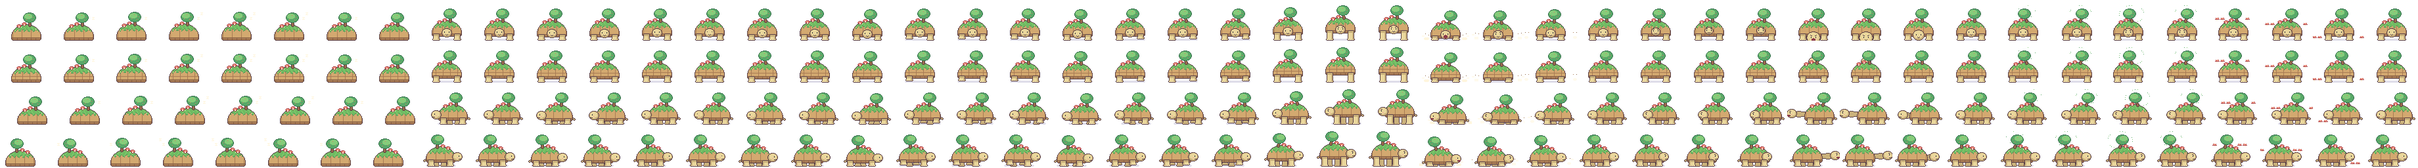
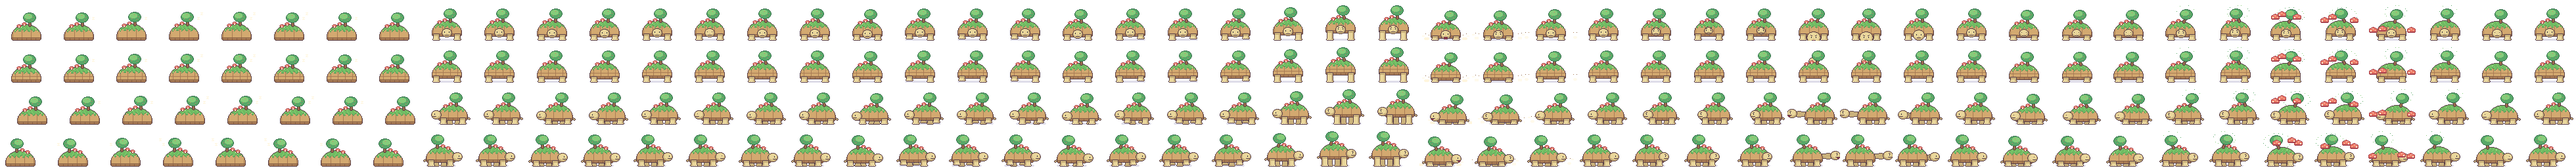
docs(design): enemy showcase: sporelings fall off Old Mossback when it
Enemy showcase: sporelings fall off Old Mossback when it shakes; fuller shake animation; a plain tortoise beak

diff --git a/design/enemies/site/index.html b/design/enemies/site/index.html
@@ -74,7 +74,7 @@
       <div><b>Big, not busy.</b> Old Mossback is about four players wide, in the same flat colours and darker-tone outlines as the cow, so it belongs to the same world.</div>
       <div><b>Three attacks, three warnings.</b> Each has its own held pose (risen on its legs, head pulled in, shell shuddering), so the answer can be read before the hit: back off, sidestep, deal with the sporecaps.</div>
       <div><b>A first boss teaches.</b> It is slow, every warning is long (about half a second), and it has one soft spot, the stretched neck, that rewards waiting.</div>
-      <div><b>It uses the small mobs.</b> The sporecaps it shakes off are the same sporecap as below; hoppers and burrows stay ordinary, rare creatures.</div>
+      <div><b>It has a brood.</b> Its shake drops three sporelings, small sporecaps with their own landing; in the strip above they fall, pop up, waddle off and puff. Sporecaps, hoppers and burrows stay ordinary, rare creatures.</div>
       <div><b>Off this page.</b> The owl and the stone golem are dropped. The tusker, pincer, strawman, wisp and wyrm are still in the game.</div>
       <div><b>Source:</b> one file per creature in <code>design/enemies/roster/</code>; <code>build.py</code> makes the sheets (rows down, up, left, right; columns idle, move, then each action) and this page. Designs only: nothing here is in the game yet.</div>
     </div>
@@ -112,7 +112,7 @@ function sprite(g, e, dir, mode, i, x, y, z) {
 }
 
 function build() {
-  $("sub").textContent = `Old Mossback and three small mobs, beside the game's own player, cow and chicken`;
+  $("sub").textContent = `Old Mossback, its sporelings and three small mobs, beside the game's own player, cow and chicken`;
   for (const e of meta) {
     const [cw, ch] = e.cell, z = cw > 32 ? 3 : 4, el = document.createElement("section");
     el.className = "card enemy" + (cw > 48 ? " wide" : "");
@@ -164,7 +164,7 @@ function drawOld(g, key, dir, moving, t, x, y, z, memo) {
 const W = 22, H = 9, POND = [17, 1, 5, 7], BEACH = [15, 0, 2, 9];
 const LOOPS = {sporecap: [.8, 1.3, 3.4, 1.4], mossback: [7.5, 2.6, 5.5, 2.2], player: [.8, 4.6, 3, 1.3], cow: [4.6, 7.4, 3.6, .9],
   burrow: [1, 7.4, 2.6, 1], chicken: [10, 7.6, 3, .8], hopper: [14.6, 1.3, 1.6, 6.4]};
-const SPEED = {sporecap: .8, hopper: 2.2, burrow: 1.6, mossback: .8};      // tiles per second; the game's cow ambles at 1.2, its chicken at 1.6, the player walks at 2.4
+const SPEED = {sporeling: 2, sporecap: .8, hopper: 2.2, burrow: 1.6, mossback: .8};      // tiles per second; the game's cow ambles at 1.2, its chicken at 1.6, the player walks at 2.4
 function along([x, y, w, h], d) {                       // where on the rectangle after d tiles, and which way it faces
   d %= 2 * (w + h);
   if (d < w) return [x + d, y, "right"];
@@ -192,6 +192,30 @@ function stepOld(key, dt) {                              // the old ones only wa
   if (a.t >= (a.moving ? 4200 : 1500)) { a.t = 0; a.moving = !a.moving; }
   if (a.moving) a.d += OLD[key].speed * dt / 1000;
   return [...along(LOOPS[key], a.d), a];
+}
+
+// Old Mossback's shake drops three sporelings where the falling ones in its own frames reach the ground. Each lands,
+// waddles away from it, puffs, and is gone.
+const spawned = [];
+let shaking = false;
+function brood(boss, x, y, dir, mode, dt, things, g, z) {
+  const a = actors.mossback, e = meta.find((m) => m.key === "sporeling");
+  const now = mode === "shake" && a.t >= total(boss.ms.shake.slice(0, 8));       // the frame they touch the ground
+  if (now && !shaking) {
+    const flip = dir === "right" ? -1 : 1;               // the right-facing sheet is the left one mirrored
+    for (const px of boss.falls) spawned.push({x: x + flip * px / 16, y: y + .05 + Math.abs(px) * .001, way: flip * px < 0 ? "left" : "right", t: 0});
+  }
+  shaking = now;
+  const land = total(e.ms.land), puff = total(e.ms.puff), walk = 2600;
+  for (const s of spawned) {
+    s.t += dt;
+    let m = "land", t = s.t;
+    if (s.t >= land + walk) { m = "puff"; t = s.t - land - walk; }
+    else if (s.t >= land) { m = "walk"; t = s.t - land; s.x += (s.way === "left" ? -1 : 1) * SPEED.sporeling * .5 * dt / 1000; }
+    const i = frameAt(e, m, t, m === "walk");
+    things.push({x: s.x, y: s.y, label: "", paint: (px, py) => sprite(g, e, m === "land" ? "down" : s.way, m, i, px, py + 2 * z, z)});
+  }
+  for (let k = spawned.length - 1; k >= 0; k--) if (spawned[k].t >= land + walk + puff) spawned.splice(k, 1);
 }
 
 let last = 0;
@@ -227,8 +251,10 @@ function draw(t) {
     things.push({x, y, label: OLD[key].name, old: true, paint: (px, py) => drawOld(g, key, dir, a.moving, t, px, py, z, a.memo)});
   }
   for (const e of meta) {
+    if (e.key === "sporeling") continue;                 // they only exist when the boss shakes them off
     const [x, y, dir, mode, i] = step(e, dt);
     things.push({x, y, label: e.name, paint: (px, py) => sprite(g, e, dir, mode, i, px, py + 2 * z, z)});
+    if (e.key === "mossback") brood(e, x, y, dir, mode, dt, things, g, z);
   }
   things.sort((a, b) => a.y - b.y);
   g.font = "800 11px ui-rounded, system-ui"; g.textAlign = "center";

diff --git a/design/enemies/roster/mossback.py b/design/enemies/roster/mossback.py
@@ -6,7 +6,7 @@ the shell sinks on each footfall, the head follows a frame late, the tree sways 
 Three attacks, each with its own warning:
   stomp   it rises on its legs and hangs there, then drops: a ring of dust, everything near is thrown back
   snap    the head pulls into the shell, eyes narrowed, then shoots out two tiles along the way it faces
-  shake   the shell shudders and the tree thrashes, leaves fly, and sporecaps tumble off its back
+  shake   it braces low with its head in and eyes shut, then the shell rocks over planted feet, the tree whips, leaves fly, and three sporelings (roster/sporeling.py) tumble off its back
 """
 import math
 
@@ -45,7 +45,7 @@ def shell(cx, bot, view, puff=0):
     return part(c)
 
 
-def garden(g, cx, bot, sway=0, puff=0, shed=False):
+def garden(g, cx, bot, sway=0, puff=0, shed=False, bare=False):
     """What grows on the shell: an apple tree (it sways), two mushrooms, flowers."""
     top = lambda x: round(dome_top(cx, bot, x, puff))
     t = canvas(W, H)
@@ -61,7 +61,7 @@ def garden(g, cx, bot, sway=0, puff=0, shed=False):
         if not shed or (x + y) % 2:
             dot(cn, tx + sway + x, cy + y, "a")
     g = over(g, part(cn, "O"))
-    for mx in (cx - 12, cx - 4):                                     # mushrooms
+    for mx in () if bare else (cx - 12, cx - 4):                     # mushrooms (gone once it has shaken them off)
         m = canvas(W, H)
         y = top(mx)
         for x in (mx, mx + 1):
@@ -101,12 +101,12 @@ def head(view, hx, hy, r=0.0, open_=False, angry=False, blink=False):
         g[hy - 1][hx - 3] = "k" if blink else "e"; g[hy - 2][hx - 3] = "o" if blink else "e"
         if angry:
             g[hy - 3][hx - 4] = g[hy - 4][hx - 3] = g[hy - 4][hx - 2] = "o"
-        g[hy + 1][hx - 1] = g[hy + 1][hx] = "p"
-        for x in range(hx - 7, hx - 2):
-            g[hy + 3][x] = "o"
+        g[hy][hx - 6] = "K"                                          # a nostril, and a beak: one flat line, no expression
+        for x in range(hx - 7, hx):
+            g[hy + 2][x] = "o"
         if open_:
-            for y in (hy + 2, hy + 3, hy + 4):
-                for x in range(hx - 7, hx - 2 - (y - hy - 2)):
+            for y in (hy + 3, hy + 4):
+                for x in range(hx - 7, hx - 2 - (y - hy - 3)):
                     if g[y][x] != ".":
                         g[y][x] = "m"
     else:
@@ -114,30 +114,30 @@ def head(view, hx, hy, r=0.0, open_=False, angry=False, blink=False):
             g[hy - 1][hx + sx] = "k" if blink else "e"; g[hy - 2][hx + sx] = "o" if blink else "e"
             if angry:
                 g[hy - 4][hx + sx + (1 if sx < 0 else -1)] = g[hy - 4][hx + sx] = "o"; g[hy - 5][hx + sx + (-1 if sx < 0 else 1)] = "o"
-        g[hy + 1][hx - 6] = g[hy + 1][hx + 5] = "p"
-        for x in (hx - 2, hx + 1):
-            g[hy + 2][x] = "o"
-        g[hy + 3][hx - 1] = g[hy + 3][hx] = "o"
+        g[hy + 1][hx - 1] = g[hy + 1][hx] = "K"                       # nostrils, and a beak: one flat line, no expression
+        for x in range(hx - 3, hx + 3):
+            dot(g, x, hy + 3, "o", on="kK")
         if open_:
-            ell(g, hx, hy + 3, 3.5, 2.6, "m")
+            ell(g, hx, hy + 5, 3, 1.6, "m")
     return ["".join(row) for row in g]
 
 
 def frame(view, up=0, step=None, bob=0, neck=0, open_=False, angry=False, blink=False, sway=0, shake=0, dust=0, asleep=False,
-          puff=0, zs=0, leaves=0, drops=0):
+          puff=0, zs=0, leaves=0, drops=0, bare=False):
     """up: the body raised on its legs (negative: dropped). step: frame of the walk. neck: head pulled in (<0) or shot out (>0)."""
     side = view == "left"
-    cx = (49 if side else 40) + shake
+    feet = 49 if side else 40                                        # the legs stay planted; the shell shakes over them
+    cx = feet + shake
     bot = BASE if asleep else BASE - LEGS - up + bob
     g = ["." * W] * H
     ph = lambda off: (0, 0) if step is None else (STEP_DX[(step + off) % 8], STEP_UP[(step + off) % 8] * 2)
     low = lambda u: max(0, u + min(0, up))                           # a dropped body cannot lift a foot
     if side and not asleep:
         nk = canvas(W, H)                                            # the neck, from the shell to wherever the head is
-        hx, hy = cx - 25 - neck, bot - 7 + (bob if step is not None else 0) - (2 if neck > 8 else 0)
+        hx, hy = feet + shake // 2 - 25 - neck, bot - 7 + (bob if step is not None else 0) - (2 if neck > 8 else 0)
         ell(nk, (hx + cx - 20) / 2, hy + 1, (cx - 20 - hx) / 2 + 3, 3.6, "K")
         g = over(g, part(nk))
-        for x, off in ((cx - 8, 4), (cx + 4, 0)):                    # far legs
+        for x, off in ((feet - 8, 4), (feet + 4, 0)):                    # far legs
             g = over(g, leg(x, bot, ph(off)[0], low(ph(off)[1]), far=True, w=7))
         tl = canvas(W, H)                                            # tail
         for i in range(4):
@@ -146,46 +146,47 @@ def frame(view, up=0, step=None, bob=0, neck=0, open_=False, angry=False, blink=
     if view == "up" and not asleep and neck > 8:                     # from behind, the head only shows when it shoots out
         g = over(g, head("up", cx, round(dome_top(cx, bot, cx)) - 2, 0))
     g = over(g, shell(cx, bot, view, puff))
-    g = garden(g, cx, bot, sway, puff, shed=drops > 0)
+    g = garden(g, cx, bot, sway, puff, shed=drops > 0 or bare, bare=bare or drops > 0)
     if not asleep:
         if side:
             g = over(g, head(view, hx, hy, 0, open_, angry, blink))
-            for x, off in ((cx - 18, 0), (cx + 11, 4)):              # near legs
+            for x, off in ((feet - 18, 0), (feet + 11, 4)):              # near legs
                 g = over(g, leg(x, bot, ph(off)[0], low(ph(off)[1])))
         else:
             lift = (0, 0) if step is None else ((2, 0) if step in (1, 2, 3) else (0, 2) if step in (5, 6, 7) else (0, 0))
-            for k, x in enumerate((cx - 20, cx + 12)):
+            for k, x in enumerate((feet - 20, feet + 12)):
                 g = over(g, leg(x, bot, 0, low(lift[k])))
             if view == "down":
-                g = over(g, head(view, cx, bot - 4 + neck * .45 + (bob if step is not None else 0), max(-2, neck * .16), open_, angry, blink))
+                g = over(g, head(view, feet + shake // 2, bot - 4 + neck * .45 + (bob if step is not None else 0), max(-2, neck * .16), open_, angry, blink))
     g = [list(r) for r in g]
     for k in range(zs):                                              # asleep: a z or two drifting up
         x, y = cx + 20 + k * 5, BASE - 34 - k * 7
         for i, j in ((0, 0), (1, 0), (2, 0), (3, 0), (2, 1), (1, 2), (0, 3), (1, 3), (2, 3), (3, 3)):
             dot(g, x + i, y + j, "z", on=".")
-    for k in range(leaves * 5):                                      # leaves torn off the tree
-        a = k * 1.3 + leaves
-        dot(g, cx + 5 + (10 + leaves * 3) * math.cos(a), BASE - 45 + (7 + leaves * 2) * math.sin(a) + leaves * 2, "C" if k % 2 else "c", on=".")
-    for k in range(3 if drops else 0):                               # sporecaps tumbling off its back
-        t = drops / 3
-        sx = (-1, 1, -1)[k]
-        x = round(cx + sx * (10 + k * 4) + sx * 20 * t)
-        y = round(BASE - 26 * (1 - t * t) - (6 * math.sin(math.pi * t)))
-        for i in range(-3, 4):                                       # a small sporecap, cap first
-            dot(g, x + i, y - 3, "Q", on=".")
-            if abs(i) < 3:
-                dot(g, x + i, y - 4, "r", on="."); dot(g, x + i, y - 5, "r" if abs(i) < 2 else "Q", on=".")
-        dot(g, x - 1, y - 5, "w"); dot(g, x + 1, y - 4, "w")
-        for i in (-1, 0):
-            dot(g, x + i, y - 2, "w", on="."); dot(g, x + i, y - 1, "w", on=".")
+    for k in range(leaves * 6):                                      # leaves torn off the tree: thrown out, then drifting down
+        a = k * 1.1 + leaves * .7
+        dot(g, feet + 5 + (9 + leaves * 4) * math.cos(a), BASE - 46 + (6 + leaves * 2) * math.sin(a) + leaves * leaves, "C" if k % 2 else "c", on=".")
+    for start, end, arc in ((-12, -32, 9), (-4, -17, 14), (8, 32, 9)) if drops else ():   # three sporelings thrown off its back,
+        t = drops / 3.5                                                                    # tucked under their caps (see FALLS)
+        x = round(40 + start + (end - start) * t)
+        y = round(BASE - 26 * (1 - t * t) - arc * math.sin(math.pi * t))
+        m = canvas(W, H)
+        ell(m, x + .5, y - 2, 6, 4.6, "r", clip=(0, y))
+        for i in range(-5, 7):
+            dot(m, x + i, y - 1, "Q", on="r")
+        ell(m, x - 1.5, y - 5.3, 1.6, .6, "p", on="r")
+        for i, j in ((-4, -3), (-3, -3), (-4, -2), (-3, -2), (0, -5), (3, -3)):
+            dot(m, x + i, y + j, "w", on="r")
+        g = [list(r) for r in over(["".join(r) for r in g], part(m, "Q"))]
     for sx in (-1, 1) if dust else ():                               # the ring of dust
         x = cx + sx * (25 + dust * 4)
         ell(g, x, BASE - dust, 4.5 - dust * .6, 2.4, "w" if dust == 1 else "x", on=".")
         ell(g, x + sx * 5, BASE - 3 - dust * 2, 2, 1.4, "x", on=".")
         dot(g, x - sx * 3, BASE - 5 - dust * 2, "R", on="."); dot(g, x + sx * 2, BASE - 8 - dust, "P", on=".")
-    return ground(g, cx, 46 if not asleep else 42)
+    return ground(g, feet, 46 if not asleep else 42)
 
 
+FALLS = (-32, -17, 32)                             # where the three sporelings land, in pixels from the middle of its cell
 BOB = [1, 0, 0, 0, 1, 0, 0, 0]                       # the shell sinks as each pair of feet lands
 SWAY = [0, 1, 1, 0, 0, -1, -1, 0]                    # the tree answers a frame late
 
@@ -199,16 +200,18 @@ def frames(d):
                frame(d, up=-3, dust=2, sway=-2, angry=True), frame(d, up=-1, dust=3, sway=1), frame(d)],
         snap=[frame(d, neck=-4, angry=True), frame(d, neck=-7, angry=True, shake=1), frame(d, neck=-7, angry=True), frame(d, neck=17, open_=True, angry=True, sway=2),
               frame(d, neck=17, angry=True, sway=-1), frame(d, neck=8), frame(d)],
-        shake=[frame(d, shake=-1, sway=-3, leaves=1), frame(d, shake=1, sway=3, leaves=2), frame(d, shake=-1, sway=-3, leaves=3, angry=True),
-               frame(d, shake=1, sway=3, leaves=2, angry=True), frame(d, shake=-1, sway=-2, drops=1), frame(d, shake=1, sway=2, drops=2),
-               frame(d, sway=-1, drops=3), frame(d)])
-
+        shake=[frame(d, up=-2, neck=-3, blink=True), frame(d, up=-2, neck=-3, blink=True, shake=1, sway=-1),       # it braces: low, head in, eyes shut
+               frame(d, up=-2, neck=-3, blink=True, shake=-1, sway=1),
+               frame(d, up=-1, shake=-2, sway=4, leaves=1, angry=True), frame(d, shake=2, sway=-4, leaves=2, angry=True),     # the tree whips the other way
+               frame(d, up=-1, shake=-2, sway=4, leaves=3, drops=1, angry=True), frame(d, shake=2, sway=-4, leaves=3, drops=2, angry=True),
+               frame(d, up=-1, shake=-1, sway=3, leaves=2, drops=3), frame(d, shake=1, sway=-2, leaves=1, bare=True),
+               frame(d, up=-1, sway=1, bare=True, blink=True), frame(d)])
 
 ENEMY = dict(
     key="mossback", name="Old Mossback", pal=PAL, role="first boss", cell=(80, 64), move="walk",
     ms=dict(sleep=320, idle=240, walk=120, stomp=[160, 300, 220, 80, 180, 220, 200], snap=[180, 200, 200, 70, 260, 140, 180],
-            shake=[110, 110, 110, 110, 130, 130, 160, 200]),
-    where="one, on the meadow of the biggest island", when="asleep until its tree is cut or its apples are picked",
+            shake=[180, 150, 150, 90, 90, 90, 90, 100, 110, 180, 200]),
+    falls=FALLS, where="one, on the meadow of the biggest island", when="asleep until its tree is cut or its apples are picked",
     behaviour="A hill with an apple tree on it, until someone swings an axe at the tree. Then the hill stands up. It is slow "
               "and turns slowly. <b>Stomp</b>: it rises and hangs, then drops: step two tiles back or be thrown. "
               "<b>Snap</b>: the head pulls in, then shoots two tiles straight ahead: step sideways, then hit the stretched neck, "

diff --git a/design/enemies/roster/sporeling.py b/design/enemies/roster/sporeling.py
@@ -1,0 +1,67 @@
+"""Sporeling: a small sporecap, the size of the chicken. Old Mossback shakes them off its back.
+
+Computed like the sporecap and moved the same way (a rigid cap, two short legs, a lean over the carrying foot), only
+quicker. It has one more animation, the landing: it falls cap first, hits the ground tucked under its cap, and pops up.
+"""
+import math
+
+from art import canvas, dot, ell, ground, over, part, shift
+
+PAL = {"o": "9a6a52", "O": "a8434f", "r": "ec7a66", "u": "cf5560", "h": "f8a58a", "w": "fff3d6", "c": "fbe9c6", "k": "e8caa0",
+       "e": "3a2a30", "y": "f3f2a0", "z": "f3f2a078"}
+W, H, CX, BASE = 24, 20, 12, 18                    # CX: the middle pixel of the stem
+SPOTS = {"down": ((-4, -1, 2), (0, -4, 1), (3, -1, 1)), "left": ((-2, -3, 2), (2, -2, 1), (4, 0, 1)), "up": ((2, -1, 2), (-1, -4, 1), (-4, -1, 1))}
+
+
+def frame(facing, lean=0, lift=None, up=0, hide=0, shake=0, blink=False, ring=0, air=0):
+    side = facing == "left"
+    st = canvas(W, H)
+    for y in range(BASE - 5 - up + hide, BASE - up):
+        for x in range(CX - 2, CX + 3):
+            st[y][x + shake] = "k" if x == CX + 2 else "c"
+    if not hide:
+        for foot, xs in (("l", (CX - 2, CX - 1)), ("r", (CX + 1, CX + 2))):
+            for y in range(BASE - up, BASE + (0 if lift == foot else 1)):
+                for x in xs:
+                    st[y][x] = "k"
+    cp, cy = canvas(W, H), BASE - 5 - up + (hide * 3 + 1) // 2
+    ell(cp, CX + .5 + lean + shake, cy, 6, 4.6, "r", clip=(0, cy + 2))
+    for x in range(W):
+        if cp[cy + 1][x] == "r":
+            cp[cy + 1][x] = "u"
+    ell(cp, CX - 1.5 + lean + shake, cy - 3.3, 1.6, .6, "h", on="r")
+    for dx, dy, n in SPOTS[facing]:
+        for i in range(n):
+            for j in range(n):
+                dot(cp, CX + lean + shake + dx + i, cy + dy + j, "w", on="rh")
+    g = [list(r) for r in over(part(st), part(cp, "O"))]
+    if facing != "up" and hide < 2:
+        for x in ((CX - 1, CX + 1) if not side else (CX - 2, CX)):
+            g[cy + 3][x] = "k" if blink else "e"
+    for k in range(10 if ring else 0):
+        a = k * math.pi / 5 + ring * .5
+        dot(g, CX + (5 + 2 * ring) * math.cos(a), min(BASE - 1, cy - 1 + (4 + 1.5 * ring) * math.sin(a)), "z" if ring == 3 else "y", on=".")
+    g = ground(g, CX + .5, 8 - min(4, air // 2))
+    return shift(g, 0, -air, keep=1) if air else g
+
+
+def frames(d):
+    walk = [frame(d, lean=t, lift=f, up=u) for t, f, u in ((-1, "r", 1), (-1, "r", 1), (0, None, 0), (0, None, 0),
+                                                           (1, "l", 1), (1, "l", 1), (0, None, 0), (0, None, 0))]
+    return dict(idle=[frame(d), frame(d), frame(d), frame(d, blink=True), frame(d), frame(d, up=1), frame(d), frame(d)],
+                walk=walk,
+                land=[frame(d, hide=2, air=9), frame(d, hide=2, air=4), frame(d, hide=2), frame(d, hide=2, shake=1), frame(d, up=2), frame(d)],
+                puff=[frame(d, hide=2, shake=-1), frame(d, hide=2, shake=1), frame(d, up=2, ring=1), frame(d, up=1, ring=2), frame(d, ring=3), frame(d)])
+
+
+ENEMY = dict(
+    key="sporeling", name="Sporeling", pal=PAL, role="boss's brood", cell=(24, 24), move="waddle",
+    ms=dict(idle=240, walk=75, land=[80, 80, 160, 120, 90, 140], puff=[150, 150, 90, 130, 150, 140]),
+    where="only around Old Mossback: three fall off its back each time it shakes", when="during the fight",
+    behaviour="It lands tucked under its cap, pops up, and waddles straight at the nearest player, quicker than a sporecap. "
+              "Next to you it ducks, shivers and puffs: no damage, but you walk slowly for two seconds, which is what makes "
+              "the next stomp or snap land. One hit kills it. Any still alive after twenty seconds root where they stand and "
+              "become ordinary mushrooms you can pick.",
+    stats=dict(hp=1, damage="0 (slows)", speed="nearly yours", drops="a mushroom, sometimes"),
+    dirs={d: frames(d) for d in ("left", "down", "up")},
+)

diff --git a/design/enemies/build.py b/design/enemies/build.py
@@ -21,7 +21,7 @@ from art import mirror  # noqa: E402
 
 SITE = HERE / "site"
 ASSETS = HERE.parent.parent / "src" / "megastructure" / "web" / "assets"
-ORDER = ["mossback", "sporecap", "hopper", "burrow"]      # on the page: the boss and the three kept mobs (older designs stay in roster/, off it)
+ORDER = ["mossback", "sporeling", "sporecap", "hopper", "burrow"]      # on the page: the boss, its brood and the three kept mobs (older designs stay in roster/, off it)
 DIRS = ["down", "up", "left", "right"]
 IN_GAME = ["tusker", "pincer", "strawman", "wisp", "wyrm"]     # (their frame columns and timings are also in web/js/world_decor.js WILD)
 SHADOW = (80, 64, 134, 46)        # the cow's and chicken's shadow colour, a touch stronger for the lighter page grass
